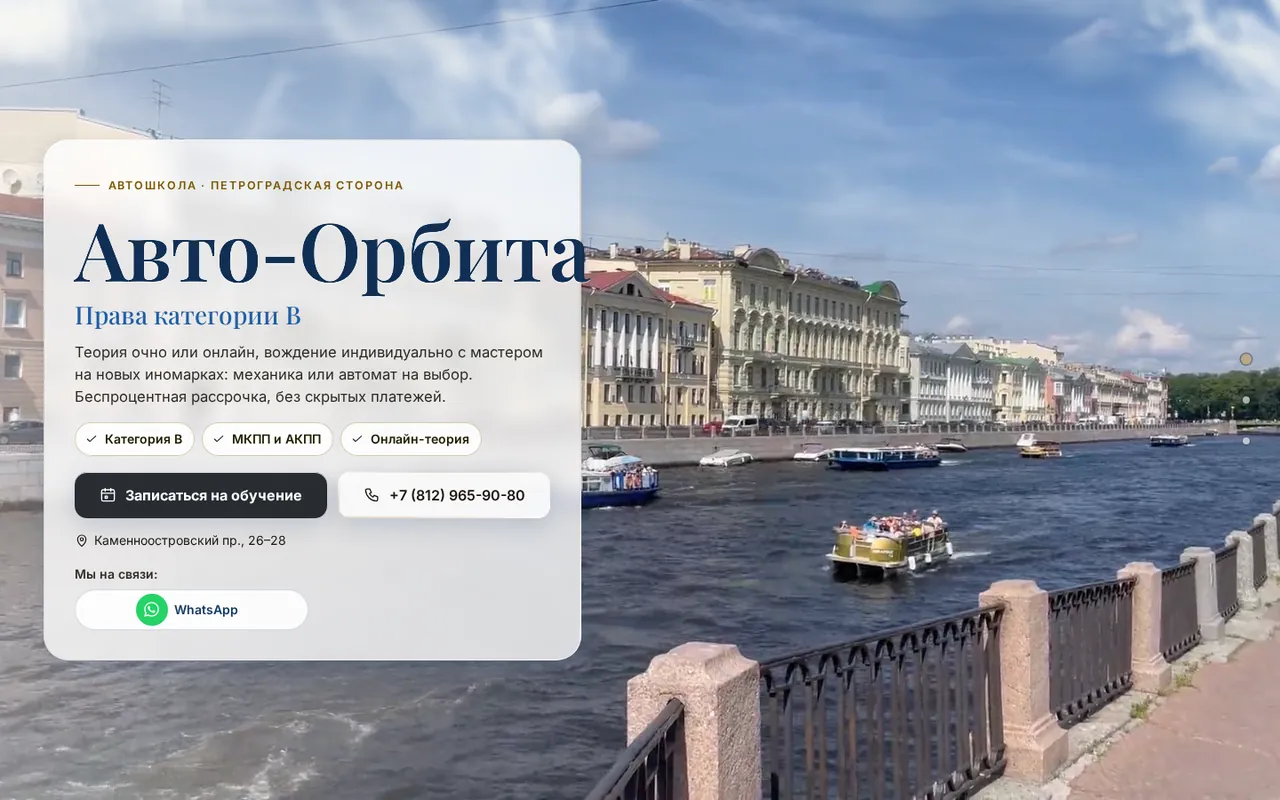
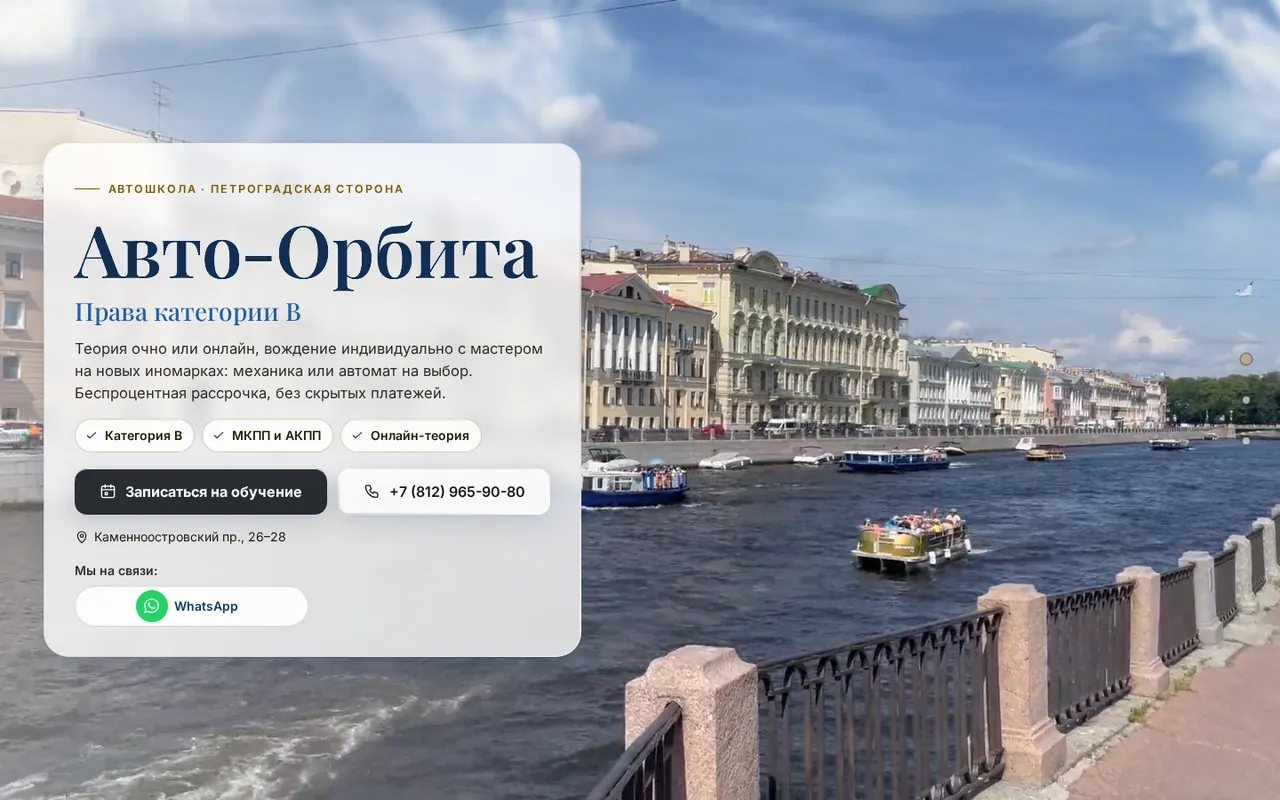
Текст не выходит за плашки: название первого экрана подгоняется под плашку, витрина показывает экраны целиком; цены на узких телефонах

diff --git a/vitrina/index.html b/vitrina/index.html
@@ -31,13 +31,14 @@ h1{text-wrap:balance;font-size:clamp(30px,3.4vw,48px);line-height:1.08;letter-sp
 .stage{position:relative;width:100%;aspect-ratio:16/11.2}
 .dv{position:absolute}
 .dv img{display:block;width:100%;height:100%;object-fit:cover;object-position:center top}
+.mon .scr img,.lap .scr img{height:auto}
 .mon{left:18%;top:0;width:68%}
-.mon .scr{aspect-ratio:16/9;padding:1.1%;background:#0e1116;border-radius:14px;box-shadow:0 30px 60px -20px rgba(20,35,58,.35)}
+.mon .scr{padding:1.1%;background:#0e1116;border-radius:14px;box-shadow:0 30px 60px -20px rgba(20,35,58,.35)}
 .mon .scr img{border-radius:6px}
 .mon .neck{width:14%;aspect-ratio:1/.95;margin:0 auto;background:linear-gradient(90deg,#c9d0d8,#eef1f4 45%,#c3cad2);clip-path:polygon(18% 0,82% 0,100% 100%,0 100%)}
 .mon .foot{width:36%;aspect-ratio:36/1.5;margin:-1px auto 0;border-radius:6px 6px 3px 3px;background:linear-gradient(180deg,#e9edf1,#b9c1ca);box-shadow:0 12px 20px -8px rgba(20,35,58,.4)}
 .lap{left:0;bottom:4%;width:46%}
-.lap .scr{aspect-ratio:16/10;padding:2.2% 2.2% 3%;background:#0b0d11;border-radius:16px 16px 4px 4px;position:relative;box-shadow:0 0 0 1px #2a2f37 inset}
+.lap .scr{padding:2.2% 2.2% 3%;background:#0b0d11;border-radius:16px 16px 4px 4px;position:relative;box-shadow:0 0 0 1px #2a2f37 inset}
 .lap .scr::before{content:"";position:absolute;top:1%;left:50%;width:.9%;aspect-ratio:1;border-radius:50%;background:#2b3442;transform:translateX(-50%)}
 .lap .scr img{border-radius:3px}
 .lap .base{position:relative;height:0;padding-bottom:3.2%;margin:0 -7%;background:linear-gradient(180deg,#e7ebef 0,#c8cfd7 60%,#9aa3ad 100%);border-radius:0 0 18px 18px/0 0 60% 60%;box-shadow:0 22px 30px -14px rgba(20,35,58,.45)}
@@ -80,7 +81,7 @@ h1{text-wrap:balance;font-size:clamp(30px,3.4vw,48px);line-height:1.08;letter-sp
   <div class="stage" id="stage" aria-label="Новый сайт на компьютере, ноутбуке и телефоне">
     <div class="dv mon"><div class="scr"><img src="img/monitor.webp?v=2" alt="" width="1600" height="900"></div><div class="neck"></div><div class="foot"></div></div>
     <div class="dv lap"><div class="scr"><img src="img/laptop.webp?v=2" alt="" width="1280" height="800"></div><div class="base"></div></div>
-    <div class="dv ph" id="ph"><div class="ss-phone z-phone" data-frame="pro" style="width: 340px; height: 714.953px; padding: 2.38318px; border-radius: 61.1682px; --ps: 0.794392523364486px;"><svg class="ss-phone__bands" width="100%" height="100%" aria-hidden="true"><defs><linearGradient id="ph-band" x1="0.2" y1="0" x2="0.8" y2="1"><stop offset="0" style="stop-color: var(--ss-phone-band-1);"></stop><stop offset="0.22" style="stop-color: var(--ss-phone-band-2);"></stop><stop offset="0.48" style="stop-color: var(--ss-phone-band-3);"></stop><stop offset="0.74" style="stop-color: var(--ss-phone-band-4);"></stop><stop offset="1" style="stop-color: var(--ss-phone-band-5);"></stop></linearGradient><linearGradient id="ph-clay" x1="0" y1="0" x2="0" y2="1"><stop offset="0" style="stop-color: var(--ss-phone-clay-top);"></stop><stop offset="1" style="stop-color: var(--ss-phone-clay-bottom);"></stop></linearGradient></defs><g transform="translate(10.327102803738317 10.327102803738317)" stroke-linejoin="round"><path d="M262.94 0.00L267.09 0.06L270.49 0.24L273.65 0.53L276.65 0.94L279.51 1.47L282.27 2.11L284.93 2.87L287.50 3.74L289.97 4.72L292.36 5.81L294.65 7.02L296.85 8.33L298.96 9.75L300.98 11.27L302.90 12.90L304.72 14.62L306.45 16.45L308.08 18.37L309.60 20.38L311.02 22.49L312.33 24.70L313.53 26.99L314.63 29.37L315.61 31.85L316.48 34.41L317.24 37.07L317.88 39.83L318.41 42.70L318.82 45.69L319.11 48.85L319.29 52.25L319.35 56.40L319.35 637.90L319.29 642.04L319.11 645.45L318.82 648.60L318.41 651.60L317.88 654.47L317.24 657.23L316.48 659.89L315.61 662.45L314.63 664.92L313.53 667.31L312.33 669.60L311.02 671.80L309.60 673.91L308.08 675.93L306.45 677.85L304.72 679.68L302.90 681.40L300.98 683.03L298.96 684.55L296.85 685.97L294.65 687.28L292.36 688.49L289.97 689.58L287.50 690.56L284.93 691.43L282.27 692.19L279.51 692.83L276.65 693.36L273.65 693.77L270.49 694.06L267.09 694.24L262.94 694.30L56.40 694.30L52.25 694.24L48.85 694.06L45.69 693.77L42.70 693.36L39.83 692.83L37.07 692.19L34.41 691.43L31.85 690.56L29.37 689.58L26.99 688.49L24.70 687.28L22.49 685.97L20.38 684.55L18.37 683.03L16.45 681.40L14.62 679.68L12.90 677.85L11.27 675.93L9.75 673.91L8.33 671.80L7.02 669.60L5.81 667.31L4.72 664.92L3.74 662.45L2.87 659.89L2.11 657.23L1.47 654.47L0.94 651.60L0.53 648.60L0.24 645.45L0.06 642.04L0.00 637.90L0.00 56.40L0.06 52.25L0.24 48.85L0.53 45.69L0.94 42.70L1.47 39.83L2.11 37.07L2.87 34.41L3.74 31.85L4.72 29.37L5.81 26.99L7.02 24.70L8.33 22.49L9.75 20.38L11.27 18.37L12.90 16.45L14.62 14.62L16.45 12.90L18.37 11.27L20.38 9.75L22.49 8.33L24.70 7.02L26.99 5.81L29.37 4.72L31.85 3.74L34.41 2.87L37.07 2.11L39.83 1.47L42.70 0.94L45.69 0.53L48.85 0.24L52.25 0.06L56.40 0.00Z" fill="none" stroke-width="20.654205607476634" stroke="url(#ph-band)"></path><path d="M262.94 0.00L267.09 0.06L270.49 0.24L273.65 0.53L276.65 0.94L279.51 1.47L282.27 2.11L284.93 2.87L287.50 3.74L289.97 4.72L292.36 5.81L294.65 7.02L296.85 8.33L298.96 9.75L300.98 11.27L302.90 12.90L304.72 14.62L306.45 16.45L308.08 18.37L309.60 20.38L311.02 22.49L312.33 24.70L313.53 26.99L314.63 29.37L315.61 31.85L316.48 34.41L317.24 37.07L317.88 39.83L318.41 42.70L318.82 45.69L319.11 48.85L319.29 52.25L319.35 56.40L319.35 637.90L319.29 642.04L319.11 645.45L318.82 648.60L318.41 651.60L317.88 654.47L317.24 657.23L316.48 659.89L315.61 662.45L314.63 664.92L313.53 667.31L312.33 669.60L311.02 671.80L309.60 673.91L308.08 675.93L306.45 677.85L304.72 679.68L302.90 681.40L300.98 683.03L298.96 684.55L296.85 685.97L294.65 687.28L292.36 688.49L289.97 689.58L287.50 690.56L284.93 691.43L282.27 692.19L279.51 692.83L276.65 693.36L273.65 693.77L270.49 694.06L267.09 694.24L262.94 694.30L56.40 694.30L52.25 694.24L48.85 694.06L45.69 693.77L42.70 693.36L39.83 692.83L37.07 692.19L34.41 691.43L31.85 690.56L29.37 689.58L26.99 688.49L24.70 687.28L22.49 685.97L20.38 684.55L18.37 683.03L16.45 681.40L14.62 679.68L12.90 677.85L11.27 675.93L9.75 673.91L8.33 671.80L7.02 669.60L5.81 667.31L4.72 664.92L3.74 662.45L2.87 659.89L2.11 657.23L1.47 654.47L0.94 651.60L0.53 648.60L0.24 645.45L0.06 642.04L0.00 637.90L0.00 56.40L0.06 52.25L0.24 48.85L0.53 45.69L0.94 42.70L1.47 39.83L2.11 37.07L2.87 34.41L3.74 31.85L4.72 29.37L5.81 26.99L7.02 24.70L8.33 22.49L9.75 20.38L11.27 18.37L12.90 16.45L14.62 14.62L16.45 12.90L18.37 11.27L20.38 9.75L22.49 8.33L24.70 7.02L26.99 5.81L29.37 4.72L31.85 3.74L34.41 2.87L37.07 2.11L39.83 1.47L42.70 0.94L45.69 0.53L48.85 0.24L52.25 0.06L56.40 0.00Z" fill="none" stroke-width="15.88785046728972" style="stroke: var(--ss-phone-rim);"></path><path d="M262.94 0.00L267.09 0.06L270.49 0.24L273.65 0.53L276.65 0.94L279.51 1.47L282.27 2.11L284.93 2.87L287.50 3.74L289.97 4.72L292.36 5.81L294.65 7.02L296.85 8.33L298.96 9.75L300.98 11.27L302.90 12.90L304.72 14.62L306.45 16.45L308.08 18.37L309.60 20.38L311.02 22.49L312.33 24.70L313.53 26.99L314.63 29.37L315.61 31.85L316.48 34.41L317.24 37.07L317.88 39.83L318.41 42.70L318.82 45.69L319.11 48.85L319.29 52.25L319.35 56.40L319.35 637.90L319.29 642.04L319.11 645.45L318.82 648.60L318.41 651.60L317.88 654.47L317.24 657.23L316.48 659.89L315.61 662.45L314.63 664.92L313.53 667.31L312.33 669.60L311.02 671.80L309.60 673.91L308.08 675.93L306.45 677.85L304.72 679.68L302.90 681.40L300.98 683.03L298.96 684.55L296.85 685.97L294.65 687.28L292.36 688.49L289.97 689.58L287.50 690.56L284.93 691.43L282.27 692.19L279.51 692.83L276.65 693.36L273.65 693.77L270.49 694.06L267.09 694.24L262.94 694.30L56.40 694.30L52.25 694.24L48.85 694.06L45.69 693.77L42.70 693.36L39.83 692.83L37.07 692.19L34.41 691.43L31.85 690.56L29.37 689.58L26.99 688.49L24.70 687.28L22.49 685.97L20.38 684.55L18.37 683.03L16.45 681.40L14.62 679.68L12.90 677.85L11.27 675.93L9.75 673.91L8.33 671.80L7.02 669.60L5.81 667.31L4.72 664.92L3.74 662.45L2.87 659.89L2.11 657.23L1.47 654.47L0.94 651.60L0.53 648.60L0.24 645.45L0.06 642.04L0.00 637.90L0.00 56.40L0.06 52.25L0.24 48.85L0.53 45.69L0.94 42.70L1.47 39.83L2.11 37.07L2.87 34.41L3.74 31.85L4.72 29.37L5.81 26.99L7.02 24.70L8.33 22.49L9.75 20.38L11.27 18.37L12.90 16.45L14.62 14.62L16.45 12.90L18.37 11.27L20.38 9.75L22.49 8.33L24.70 7.02L26.99 5.81L29.37 4.72L31.85 3.74L34.41 2.87L37.07 2.11L39.83 1.47L42.70 0.94L45.69 0.53L48.85 0.24L52.25 0.06L56.40 0.00Z" fill="none" stroke-width="14.69626168224299" style="stroke: var(--ss-phone-glass);"></path></g></svg><div class="ss-phone__glass" style="padding: 7.94393px; border-radius: 58.785px;"><div class="ss-phone__window" style="width: 319.346px; height: 694.299px; clip-path: path(&quot;M 262.94 0 L 267.09 0.06 L 270.49 0.24 L 273.65 0.53 L 276.65 0.94 L 279.51 1.47 L 282.27 2.11 L 284.93 2.87 L 287.5 3.74 L 289.97 4.72 L 292.36 5.81 L 294.65 7.02 L 296.85 8.33 L 298.96 9.75 L 300.98 11.27 L 302.9 12.9 L 304.72 14.62 L 306.45 16.45 L 308.08 18.37 L 309.6 20.38 L 311.02 22.49 L 312.33 24.7 L 313.53 26.99 L 314.63 29.37 L 315.61 31.85 L 316.48 34.41 L 317.24 37.07 L 317.88 39.83 L 318.41 42.7 L 318.82 45.69 L 319.11 48.85 L 319.29 52.25 L 319.35 56.4 L 319.35 637.9 L 319.29 642.04 L 319.11 645.45 L 318.82 648.6 L 318.41 651.6 L 317.88 654.47 L 317.24 657.23 L 316.48 659.89 L 315.61 662.45 L 314.63 664.92 L 313.53 667.31 L 312.33 669.6 L 311.02 671.8 L 309.6 673.91 L 308.08 675.93 L 306.45 677.85 L 304.72 679.68 L 302.9 681.4 L 300.98 683.03 L 298.96 684.55 L 296.85 685.97 L 294.65 687.28 L 292.36 688.49 L 289.97 689.58 L 287.5 690.56 L 284.93 691.43 L 282.27 692.19 L 279.51 692.83 L 276.65 693.36 L 273.65 693.77 L 270.49 694.06 L 267.09 694.24 L 262.94 694.3 L 56.4 694.3 L 52.25 694.24 L 48.85 694.06 L 45.69 693.77 L 42.7 693.36 L 39.83 692.83 L 37.07 692.19 L 34.41 691.43 L 31.85 690.56 L 29.37 689.58 L 26.99 688.49 L 24.7 687.28 L 22.49 685.97 L 20.38 684.55 L 18.37 683.03 L 16.45 681.4 L 14.62 679.68 L 12.9 677.85 L 11.27 675.93 L 9.75 673.91 L 8.33 671.8 L 7.02 669.6 L 5.81 667.31 L 4.72 664.92 L 3.74 662.45 L 2.87 659.89 L 2.11 657.23 L 1.47 654.47 L 0.94 651.6 L 0.53 648.6 L 0.24 645.45 L 0.06 642.04 L 0 637.9 L 0 56.4 L 0.06 52.25 L 0.24 48.85 L 0.53 45.69 L 0.94 42.7 L 1.47 39.83 L 2.11 37.07 L 2.87 34.41 L 3.74 31.85 L 4.72 29.37 L 5.81 26.99 L 7.02 24.7 L 8.33 22.49 L 9.75 20.38 L 11.27 18.37 L 12.9 16.45 L 14.62 14.62 L 16.45 12.9 L 18.37 11.27 L 20.38 9.75 L 22.49 8.33 L 24.7 7.02 L 26.99 5.81 L 29.37 4.72 L 31.85 3.74 L 34.41 2.87 L 37.07 2.11 L 39.83 1.47 L 42.7 0.94 L 45.69 0.53 L 48.85 0.24 L 52.25 0.06 L 56.4 0 Z&quot;);"><div class="ss-phone__screen" style="width: 402px; height: 874px; transform: scale(0.794393); --ss-screen-r: 64px;"><div class="ss-phone__status"><span class="ss-phone__time">10:02</span><span class="ss-phone__glyphs"><svg viewBox="0 0 20.33 13.67" width="20.33" height="13.67" class="ss-phone__glyph ss-phone__signal"><rect x="0" y="7.34" width="3.333" height="6.33" rx="1.667" fill="currentColor"></rect><rect x="5.667" y="5" width="3.333" height="8.67" rx="1.667" fill="currentColor"></rect><rect x="11.334" y="2.67" width="3.333" height="11" rx="1.667" fill="currentColor"></rect><rect x="17.000999999999998" y="0" width="3.333" height="13.67" rx="1.667" fill="currentColor"></rect></svg><svg viewBox="0 0 19.33 14.33" width="19.33" height="14.33" class="ss-phone__glyph ss-phone__wifi"><path fill-rule="evenodd" fill="currentColor" d="M0.415933 5.54283C0.902185 6.04412 1.66017 5.95818 2.27513 5.41393C4.30595 3.58064 6.83731 2.63535 9.66901 2.63535C12.5007 2.63535 15.0464 3.60928 17.0629 5.41393C17.6636 5.97251 18.4215 6.0298 18.9221 5.54283C19.4226 5.02722 19.4942 4.2538 18.9793 3.70954C16.8341 1.51819 13.3302 0 9.66901 0C6.00783 0 2.48965 1.53251 0.358727 3.72387C-0.156127 4.2538 -0.0989213 5.02722 0.415933 5.55715L0.415933 5.54283ZM3.94841 9.13779C4.50617 9.68205 5.22124 9.62476 5.85051 9.10915C6.88022 8.29276 8.25316 7.73418 9.66901 7.7485C11.0706 7.7485 12.4435 8.29276 13.4875 9.12347C14.1168 9.63908 14.8605 9.66773 15.4039 9.12347C15.9331 8.57921 16.0189 7.7485 15.4611 7.23289C14.0739 5.98683 11.9859 5.11315 9.68332 5.11315C7.38077 5.11315 5.27845 5.98683 3.9055 7.23289C3.41925 7.69121 3.31914 8.47896 3.96271 9.13779L3.94841 9.13779ZM8.72511 13.8929C9.34008 14.4801 9.98365 14.4801 10.5986 13.8929L11.757 12.7757C12.372 12.1742 12.5007 11.4151 11.7999 10.8995C11.2136 10.4841 10.4699 10.212 9.66901 10.212C8.86813 10.212 8.11015 10.4841 7.53809 10.9138C6.83731 11.4151 6.98033 12.1885 7.59529 12.7757L8.73942 13.8929L8.72511 13.8929Z"></path></svg><svg viewBox="0 0 29.33 13.67" width="29.33" height="13.67" class="ss-phone__glyph ss-phone__battery"><path fill="currentColor" d="M0 6.4C0 4.15979 0 3.03969 0.435974 2.18404C0.819467 1.43139 1.43139 0.819467 2.18404 0.435974C3.03969 0 4.15979 0 6.4 0L19.933 0C22.1732 0 23.2933 0 24.149 0.435974C24.9016 0.819467 25.5135 1.43139 25.897 2.18404C26.333 3.03969 26.333 4.15979 26.333 6.4L26.333 7.26666C26.333 9.50687 26.333 10.627 25.897 11.4826C25.5135 12.2353 24.9016 12.8472 24.149 13.2307C23.2933 13.6667 22.1732 13.6667 19.933 13.6667L6.4 13.6667C4.15979 13.6667 3.03969 13.6667 2.18404 13.2307C1.43139 12.8472 0.819467 12.2353 0.435974 11.4826C0 10.627 0 9.50687 0 7.26666L0 6.4Z"></path><path fill-rule="evenodd" fill="currentColor" transform="translate(27.33 4.33)" d="M0 0L0 5C0.601505 4.8625 2 3.75 2 2.5C2 1.25 0.601505 0.1375 0 0Z"></path></svg></span></div><span class="ss-phone__island"></span><div class="ss-phone__content" data-status="true"><img class="ph-shot" src="img/phone.webp?v=2" alt="Новый сайт автошколы «Авто-Орбита» на телефоне" width="393" height="790"></div><span class="ss-phone__home"></span></div></div></div></div></div>
+    <div class="dv ph" id="ph"><div class="ss-phone z-phone" data-frame="pro" style="width: 340px; height: 714.953px; padding: 2.38318px; border-radius: 61.1682px; --ps: 0.794392523364486px;"><svg class="ss-phone__bands" width="100%" height="100%" aria-hidden="true"><defs><linearGradient id="ph-band" x1="0.2" y1="0" x2="0.8" y2="1"><stop offset="0" style="stop-color: var(--ss-phone-band-1);"></stop><stop offset="0.22" style="stop-color: var(--ss-phone-band-2);"></stop><stop offset="0.48" style="stop-color: var(--ss-phone-band-3);"></stop><stop offset="0.74" style="stop-color: var(--ss-phone-band-4);"></stop><stop offset="1" style="stop-color: var(--ss-phone-band-5);"></stop></linearGradient><linearGradient id="ph-clay" x1="0" y1="0" x2="0" y2="1"><stop offset="0" style="stop-color: var(--ss-phone-clay-top);"></stop><stop offset="1" style="stop-color: var(--ss-phone-clay-bottom);"></stop></linearGradient></defs><g transform="translate(10.327102803738317 10.327102803738317)" stroke-linejoin="round"><path d="M262.94 0.00L267.09 0.06L270.49 0.24L273.65 0.53L276.65 0.94L279.51 1.47L282.27 2.11L284.93 2.87L287.50 3.74L289.97 4.72L292.36 5.81L294.65 7.02L296.85 8.33L298.96 9.75L300.98 11.27L302.90 12.90L304.72 14.62L306.45 16.45L308.08 18.37L309.60 20.38L311.02 22.49L312.33 24.70L313.53 26.99L314.63 29.37L315.61 31.85L316.48 34.41L317.24 37.07L317.88 39.83L318.41 42.70L318.82 45.69L319.11 48.85L319.29 52.25L319.35 56.40L319.35 637.90L319.29 642.04L319.11 645.45L318.82 648.60L318.41 651.60L317.88 654.47L317.24 657.23L316.48 659.89L315.61 662.45L314.63 664.92L313.53 667.31L312.33 669.60L311.02 671.80L309.60 673.91L308.08 675.93L306.45 677.85L304.72 679.68L302.90 681.40L300.98 683.03L298.96 684.55L296.85 685.97L294.65 687.28L292.36 688.49L289.97 689.58L287.50 690.56L284.93 691.43L282.27 692.19L279.51 692.83L276.65 693.36L273.65 693.77L270.49 694.06L267.09 694.24L262.94 694.30L56.40 694.30L52.25 694.24L48.85 694.06L45.69 693.77L42.70 693.36L39.83 692.83L37.07 692.19L34.41 691.43L31.85 690.56L29.37 689.58L26.99 688.49L24.70 687.28L22.49 685.97L20.38 684.55L18.37 683.03L16.45 681.40L14.62 679.68L12.90 677.85L11.27 675.93L9.75 673.91L8.33 671.80L7.02 669.60L5.81 667.31L4.72 664.92L3.74 662.45L2.87 659.89L2.11 657.23L1.47 654.47L0.94 651.60L0.53 648.60L0.24 645.45L0.06 642.04L0.00 637.90L0.00 56.40L0.06 52.25L0.24 48.85L0.53 45.69L0.94 42.70L1.47 39.83L2.11 37.07L2.87 34.41L3.74 31.85L4.72 29.37L5.81 26.99L7.02 24.70L8.33 22.49L9.75 20.38L11.27 18.37L12.90 16.45L14.62 14.62L16.45 12.90L18.37 11.27L20.38 9.75L22.49 8.33L24.70 7.02L26.99 5.81L29.37 4.72L31.85 3.74L34.41 2.87L37.07 2.11L39.83 1.47L42.70 0.94L45.69 0.53L48.85 0.24L52.25 0.06L56.40 0.00Z" fill="none" stroke-width="20.654205607476634" stroke="url(#ph-band)"></path><path d="M262.94 0.00L267.09 0.06L270.49 0.24L273.65 0.53L276.65 0.94L279.51 1.47L282.27 2.11L284.93 2.87L287.50 3.74L289.97 4.72L292.36 5.81L294.65 7.02L296.85 8.33L298.96 9.75L300.98 11.27L302.90 12.90L304.72 14.62L306.45 16.45L308.08 18.37L309.60 20.38L311.02 22.49L312.33 24.70L313.53 26.99L314.63 29.37L315.61 31.85L316.48 34.41L317.24 37.07L317.88 39.83L318.41 42.70L318.82 45.69L319.11 48.85L319.29 52.25L319.35 56.40L319.35 637.90L319.29 642.04L319.11 645.45L318.82 648.60L318.41 651.60L317.88 654.47L317.24 657.23L316.48 659.89L315.61 662.45L314.63 664.92L313.53 667.31L312.33 669.60L311.02 671.80L309.60 673.91L308.08 675.93L306.45 677.85L304.72 679.68L302.90 681.40L300.98 683.03L298.96 684.55L296.85 685.97L294.65 687.28L292.36 688.49L289.97 689.58L287.50 690.56L284.93 691.43L282.27 692.19L279.51 692.83L276.65 693.36L273.65 693.77L270.49 694.06L267.09 694.24L262.94 694.30L56.40 694.30L52.25 694.24L48.85 694.06L45.69 693.77L42.70 693.36L39.83 692.83L37.07 692.19L34.41 691.43L31.85 690.56L29.37 689.58L26.99 688.49L24.70 687.28L22.49 685.97L20.38 684.55L18.37 683.03L16.45 681.40L14.62 679.68L12.90 677.85L11.27 675.93L9.75 673.91L8.33 671.80L7.02 669.60L5.81 667.31L4.72 664.92L3.74 662.45L2.87 659.89L2.11 657.23L1.47 654.47L0.94 651.60L0.53 648.60L0.24 645.45L0.06 642.04L0.00 637.90L0.00 56.40L0.06 52.25L0.24 48.85L0.53 45.69L0.94 42.70L1.47 39.83L2.11 37.07L2.87 34.41L3.74 31.85L4.72 29.37L5.81 26.99L7.02 24.70L8.33 22.49L9.75 20.38L11.27 18.37L12.90 16.45L14.62 14.62L16.45 12.90L18.37 11.27L20.38 9.75L22.49 8.33L24.70 7.02L26.99 5.81L29.37 4.72L31.85 3.74L34.41 2.87L37.07 2.11L39.83 1.47L42.70 0.94L45.69 0.53L48.85 0.24L52.25 0.06L56.40 0.00Z" fill="none" stroke-width="15.88785046728972" style="stroke: var(--ss-phone-rim);"></path><path d="M262.94 0.00L267.09 0.06L270.49 0.24L273.65 0.53L276.65 0.94L279.51 1.47L282.27 2.11L284.93 2.87L287.50 3.74L289.97 4.72L292.36 5.81L294.65 7.02L296.85 8.33L298.96 9.75L300.98 11.27L302.90 12.90L304.72 14.62L306.45 16.45L308.08 18.37L309.60 20.38L311.02 22.49L312.33 24.70L313.53 26.99L314.63 29.37L315.61 31.85L316.48 34.41L317.24 37.07L317.88 39.83L318.41 42.70L318.82 45.69L319.11 48.85L319.29 52.25L319.35 56.40L319.35 637.90L319.29 642.04L319.11 645.45L318.82 648.60L318.41 651.60L317.88 654.47L317.24 657.23L316.48 659.89L315.61 662.45L314.63 664.92L313.53 667.31L312.33 669.60L311.02 671.80L309.60 673.91L308.08 675.93L306.45 677.85L304.72 679.68L302.90 681.40L300.98 683.03L298.96 684.55L296.85 685.97L294.65 687.28L292.36 688.49L289.97 689.58L287.50 690.56L284.93 691.43L282.27 692.19L279.51 692.83L276.65 693.36L273.65 693.77L270.49 694.06L267.09 694.24L262.94 694.30L56.40 694.30L52.25 694.24L48.85 694.06L45.69 693.77L42.70 693.36L39.83 692.83L37.07 692.19L34.41 691.43L31.85 690.56L29.37 689.58L26.99 688.49L24.70 687.28L22.49 685.97L20.38 684.55L18.37 683.03L16.45 681.40L14.62 679.68L12.90 677.85L11.27 675.93L9.75 673.91L8.33 671.80L7.02 669.60L5.81 667.31L4.72 664.92L3.74 662.45L2.87 659.89L2.11 657.23L1.47 654.47L0.94 651.60L0.53 648.60L0.24 645.45L0.06 642.04L0.00 637.90L0.00 56.40L0.06 52.25L0.24 48.85L0.53 45.69L0.94 42.70L1.47 39.83L2.11 37.07L2.87 34.41L3.74 31.85L4.72 29.37L5.81 26.99L7.02 24.70L8.33 22.49L9.75 20.38L11.27 18.37L12.90 16.45L14.62 14.62L16.45 12.90L18.37 11.27L20.38 9.75L22.49 8.33L24.70 7.02L26.99 5.81L29.37 4.72L31.85 3.74L34.41 2.87L37.07 2.11L39.83 1.47L42.70 0.94L45.69 0.53L48.85 0.24L52.25 0.06L56.40 0.00Z" fill="none" stroke-width="14.69626168224299" style="stroke: var(--ss-phone-glass);"></path></g></svg><div class="ss-phone__glass" style="padding: 7.94393px; border-radius: 58.785px;"><div class="ss-phone__window" style="width: 319.346px; height: 694.299px; clip-path: path(&quot;M 262.94 0 L 267.09 0.06 L 270.49 0.24 L 273.65 0.53 L 276.65 0.94 L 279.51 1.47 L 282.27 2.11 L 284.93 2.87 L 287.5 3.74 L 289.97 4.72 L 292.36 5.81 L 294.65 7.02 L 296.85 8.33 L 298.96 9.75 L 300.98 11.27 L 302.9 12.9 L 304.72 14.62 L 306.45 16.45 L 308.08 18.37 L 309.6 20.38 L 311.02 22.49 L 312.33 24.7 L 313.53 26.99 L 314.63 29.37 L 315.61 31.85 L 316.48 34.41 L 317.24 37.07 L 317.88 39.83 L 318.41 42.7 L 318.82 45.69 L 319.11 48.85 L 319.29 52.25 L 319.35 56.4 L 319.35 637.9 L 319.29 642.04 L 319.11 645.45 L 318.82 648.6 L 318.41 651.6 L 317.88 654.47 L 317.24 657.23 L 316.48 659.89 L 315.61 662.45 L 314.63 664.92 L 313.53 667.31 L 312.33 669.6 L 311.02 671.8 L 309.6 673.91 L 308.08 675.93 L 306.45 677.85 L 304.72 679.68 L 302.9 681.4 L 300.98 683.03 L 298.96 684.55 L 296.85 685.97 L 294.65 687.28 L 292.36 688.49 L 289.97 689.58 L 287.5 690.56 L 284.93 691.43 L 282.27 692.19 L 279.51 692.83 L 276.65 693.36 L 273.65 693.77 L 270.49 694.06 L 267.09 694.24 L 262.94 694.3 L 56.4 694.3 L 52.25 694.24 L 48.85 694.06 L 45.69 693.77 L 42.7 693.36 L 39.83 692.83 L 37.07 692.19 L 34.41 691.43 L 31.85 690.56 L 29.37 689.58 L 26.99 688.49 L 24.7 687.28 L 22.49 685.97 L 20.38 684.55 L 18.37 683.03 L 16.45 681.4 L 14.62 679.68 L 12.9 677.85 L 11.27 675.93 L 9.75 673.91 L 8.33 671.8 L 7.02 669.6 L 5.81 667.31 L 4.72 664.92 L 3.74 662.45 L 2.87 659.89 L 2.11 657.23 L 1.47 654.47 L 0.94 651.6 L 0.53 648.6 L 0.24 645.45 L 0.06 642.04 L 0 637.9 L 0 56.4 L 0.06 52.25 L 0.24 48.85 L 0.53 45.69 L 0.94 42.7 L 1.47 39.83 L 2.11 37.07 L 2.87 34.41 L 3.74 31.85 L 4.72 29.37 L 5.81 26.99 L 7.02 24.7 L 8.33 22.49 L 9.75 20.38 L 11.27 18.37 L 12.9 16.45 L 14.62 14.62 L 16.45 12.9 L 18.37 11.27 L 20.38 9.75 L 22.49 8.33 L 24.7 7.02 L 26.99 5.81 L 29.37 4.72 L 31.85 3.74 L 34.41 2.87 L 37.07 2.11 L 39.83 1.47 L 42.7 0.94 L 45.69 0.53 L 48.85 0.24 L 52.25 0.06 L 56.4 0 Z&quot;);"><div class="ss-phone__screen" style="width: 402px; height: 874px; transform: scale(0.794393); --ss-screen-r: 64px;"><div class="ss-phone__status"><span class="ss-phone__time">10:02</span><span class="ss-phone__glyphs"><svg viewBox="0 0 20.33 13.67" width="20.33" height="13.67" class="ss-phone__glyph ss-phone__signal"><rect x="0" y="7.34" width="3.333" height="6.33" rx="1.667" fill="currentColor"></rect><rect x="5.667" y="5" width="3.333" height="8.67" rx="1.667" fill="currentColor"></rect><rect x="11.334" y="2.67" width="3.333" height="11" rx="1.667" fill="currentColor"></rect><rect x="17.000999999999998" y="0" width="3.333" height="13.67" rx="1.667" fill="currentColor"></rect></svg><svg viewBox="0 0 19.33 14.33" width="19.33" height="14.33" class="ss-phone__glyph ss-phone__wifi"><path fill-rule="evenodd" fill="currentColor" d="M0.415933 5.54283C0.902185 6.04412 1.66017 5.95818 2.27513 5.41393C4.30595 3.58064 6.83731 2.63535 9.66901 2.63535C12.5007 2.63535 15.0464 3.60928 17.0629 5.41393C17.6636 5.97251 18.4215 6.0298 18.9221 5.54283C19.4226 5.02722 19.4942 4.2538 18.9793 3.70954C16.8341 1.51819 13.3302 0 9.66901 0C6.00783 0 2.48965 1.53251 0.358727 3.72387C-0.156127 4.2538 -0.0989213 5.02722 0.415933 5.55715L0.415933 5.54283ZM3.94841 9.13779C4.50617 9.68205 5.22124 9.62476 5.85051 9.10915C6.88022 8.29276 8.25316 7.73418 9.66901 7.7485C11.0706 7.7485 12.4435 8.29276 13.4875 9.12347C14.1168 9.63908 14.8605 9.66773 15.4039 9.12347C15.9331 8.57921 16.0189 7.7485 15.4611 7.23289C14.0739 5.98683 11.9859 5.11315 9.68332 5.11315C7.38077 5.11315 5.27845 5.98683 3.9055 7.23289C3.41925 7.69121 3.31914 8.47896 3.96271 9.13779L3.94841 9.13779ZM8.72511 13.8929C9.34008 14.4801 9.98365 14.4801 10.5986 13.8929L11.757 12.7757C12.372 12.1742 12.5007 11.4151 11.7999 10.8995C11.2136 10.4841 10.4699 10.212 9.66901 10.212C8.86813 10.212 8.11015 10.4841 7.53809 10.9138C6.83731 11.4151 6.98033 12.1885 7.59529 12.7757L8.73942 13.8929L8.72511 13.8929Z"></path></svg><svg viewBox="0 0 29.33 13.67" width="29.33" height="13.67" class="ss-phone__glyph ss-phone__battery"><path fill="currentColor" d="M0 6.4C0 4.15979 0 3.03969 0.435974 2.18404C0.819467 1.43139 1.43139 0.819467 2.18404 0.435974C3.03969 0 4.15979 0 6.4 0L19.933 0C22.1732 0 23.2933 0 24.149 0.435974C24.9016 0.819467 25.5135 1.43139 25.897 2.18404C26.333 3.03969 26.333 4.15979 26.333 6.4L26.333 7.26666C26.333 9.50687 26.333 10.627 25.897 11.4826C25.5135 12.2353 24.9016 12.8472 24.149 13.2307C23.2933 13.6667 22.1732 13.6667 19.933 13.6667L6.4 13.6667C4.15979 13.6667 3.03969 13.6667 2.18404 13.2307C1.43139 12.8472 0.819467 12.2353 0.435974 11.4826C0 10.627 0 9.50687 0 7.26666L0 6.4Z"></path><path fill-rule="evenodd" fill="currentColor" transform="translate(27.33 4.33)" d="M0 0L0 5C0.601505 4.8625 2 3.75 2 2.5C2 1.25 0.601505 0.1375 0 0Z"></path></svg></span></div><span class="ss-phone__island"></span><div class="ss-phone__content" data-status="true"><img class="ph-shot" src="img/phone.webp?v=2" alt="Новый сайт автошколы «Авто-Орбита» на телефоне" width="393" height="794"></div><span class="ss-phone__home"></span></div></div></div></div></div>
   </div>
 </main>
 <p class="note">Сайт сделан веб-агентством «Всети» по материалам открытого сайта автошколы.</p>

diff --git a/js/fit-title.js b/js/fit-title.js
@@ -1,0 +1,32 @@
+/* Название школы на первом экране всегда целиком внутри плашки (правило Сергея 13.11).
+   Слово набрано в одну строку (.hw, white-space:nowrap); если при заданном в CSS размере оно шире
+   строки заголовка, шрифт уменьшается ровно до ширины. Пересчёт — после загрузки шрифтов, при смене
+   ширины плашки, темы, контраста и размера шрифта (А−/А+). Меряется копия слова без анимации букв. */
+(function () {
+  'use strict';
+  var word = document.getElementById('heroWord');
+  if (!word || !word.parentElement) return;
+  var line = word.parentElement, raf = 0;
+  function fit() {
+    raf = 0;
+    word.style.fontSize = '';
+    var avail = line.clientWidth;
+    if (!avail) return;
+    var probe = document.createElement('span');
+    probe.className = word.className;
+    probe.textContent = word.getAttribute('aria-label') || word.textContent;
+    probe.setAttribute('aria-hidden', 'true');
+    probe.style.cssText = 'position:absolute;left:0;top:0;visibility:hidden;white-space:nowrap;display:inline-block;animation:none;opacity:0;pointer-events:none';
+    line.appendChild(probe);
+    var need = probe.getBoundingClientRect().width, size = parseFloat(getComputedStyle(probe).fontSize);
+    line.removeChild(probe);
+    if (need > avail && size) word.style.fontSize = Math.floor(size * avail / need * 0.97 * 10) / 10 + 'px';
+  }
+  function later() { if (!raf) raf = requestAnimationFrame(fit); }
+  fit();
+  if (document.fonts && document.fonts.ready) document.fonts.ready.then(later);
+  window.addEventListener('load', later);
+  window.addEventListener('resize', later);
+  if (window.ResizeObserver) new ResizeObserver(later).observe(line);
+  if (window.MutationObserver) new MutationObserver(later).observe(document.documentElement, { attributes: true, attributeFilter: ['style', 'class', 'data-theme', 'data-hc'] });
+})();

diff --git a/index.html b/index.html
@@ -1854,6 +1854,7 @@ html[data-hc="1"] :focus-visible{outline:3px solid #ffe14d;outline-offset:2px}
 <script src="js/clouds.js" defer></script>
 <script src="js/gulls.js" defer></script>
 <script src="js/title-b.js" defer></script>
+<script src="js/fit-title.js" defer></script>
 <script src="js/diag.js?v=1"></script>
 </body>
 </html>
